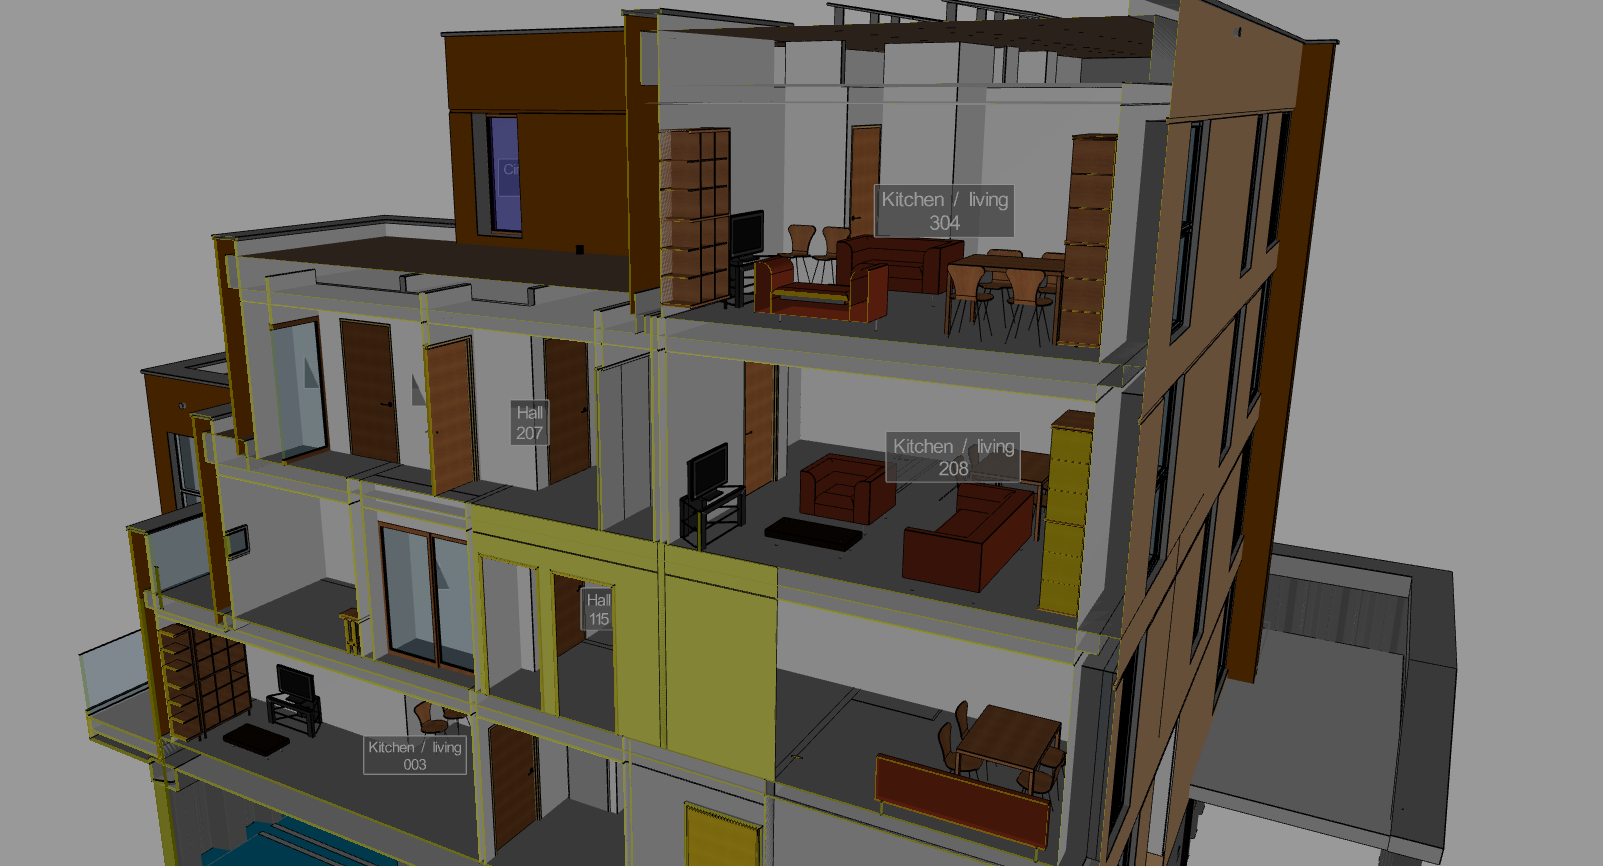
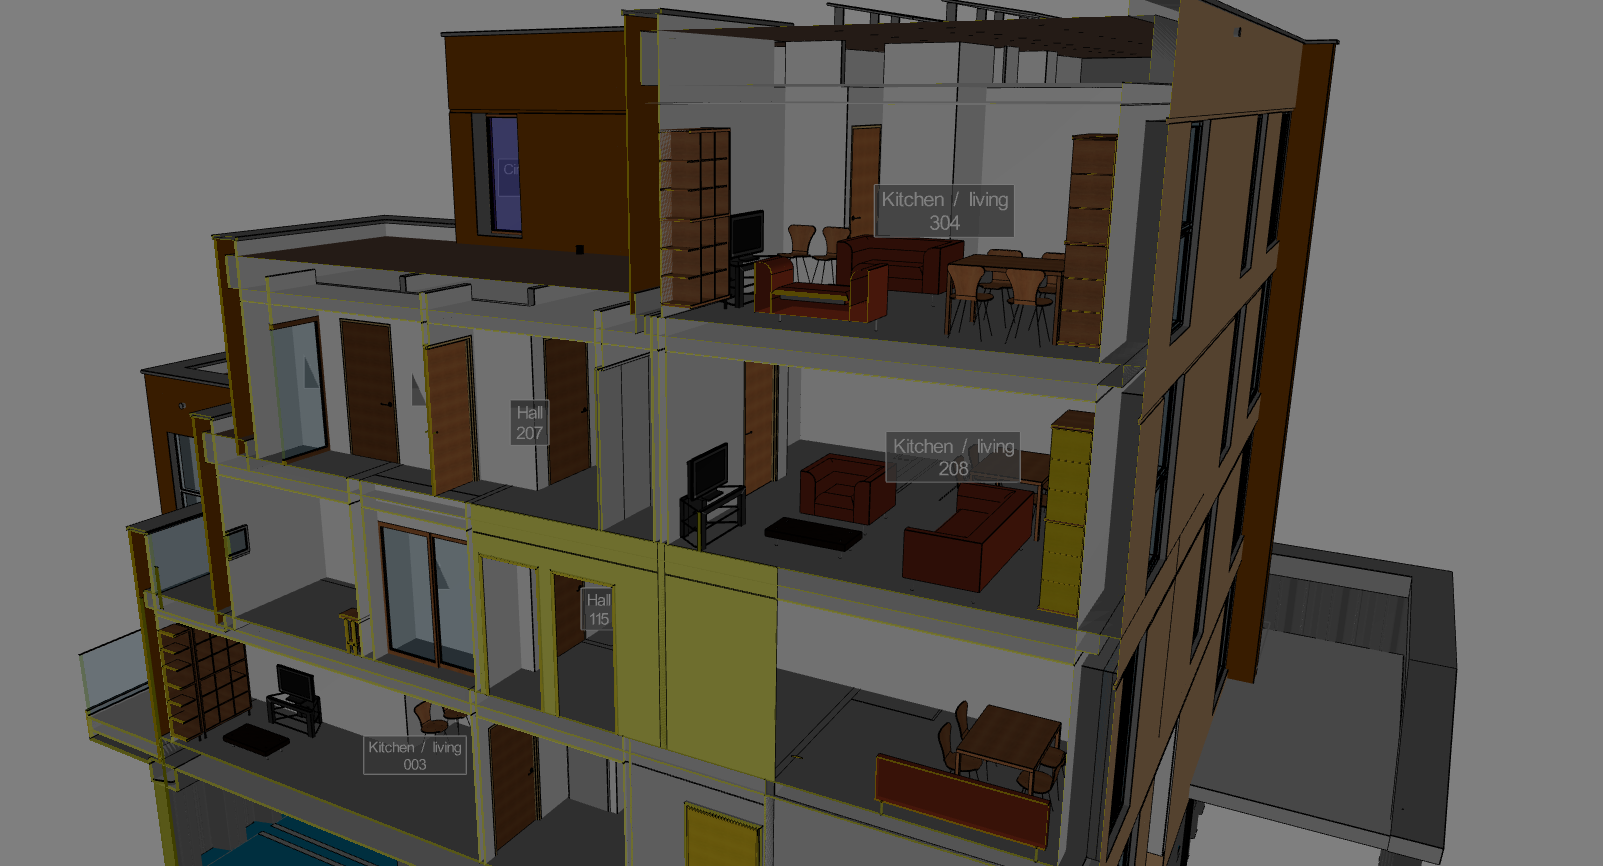
darken images and match demo button font to rest of page

diff --git a/css/style.css b/css/style.css
@@ -867,14 +867,14 @@ ul.info i:hover {
 }
 
 .slider-background {
-  background: #999;
+  background: #7f7f7f;
 }
 
 .slider-container {
   max-width: 100rem;
 }
 
-.orbit-slides-container {
+.slider-container .orbit-slides-container {
   height: 340px !important;
   overflow: hidden;
 }
@@ -893,7 +893,7 @@ ul.info i:hover {
 }
 
 .orbit-caption .button.orange:hover {
-  background: #fcdf51;
+  background: #fccf41;
 }
 
 @media only screen and (min-width: 0px) and (max-width: 480px) {

diff --git a/css/framework.css b/css/framework.css
@@ -1917,7 +1917,6 @@ button, .button {
   border-style: solid;
   border-width: 0px;
   cursor: pointer;
-  font-family: "PT sans";
   font-weight: normal;
   line-height: normal;
   margin: 0 0 1.25rem;
